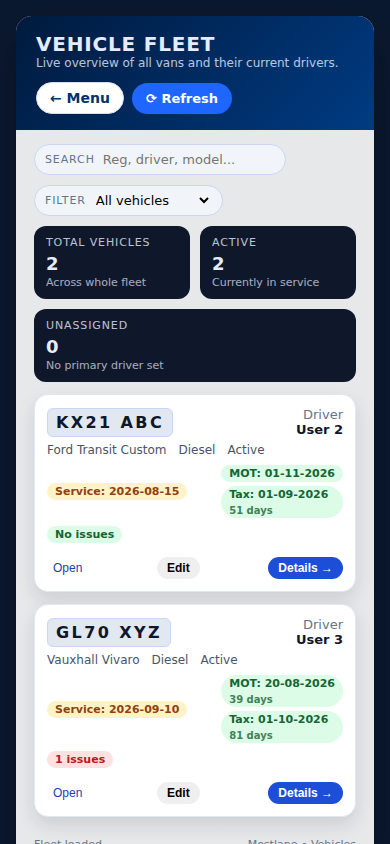
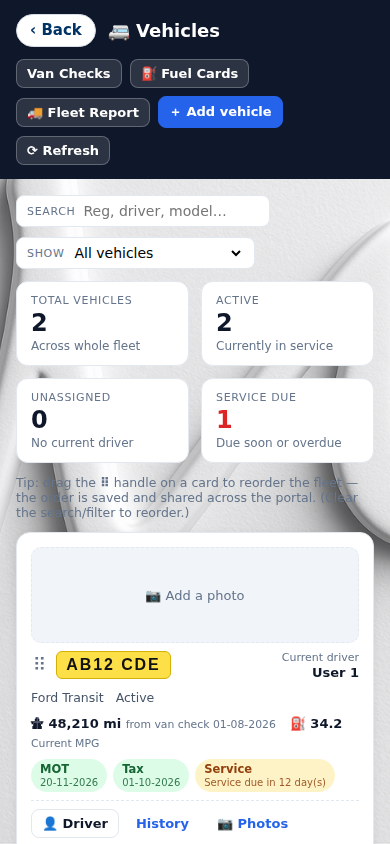
Help: add screenshots to the Vehicles & fleet guides
Staged 8 phone-viewport screenshots (390x844, generic User 1/2/3 data) for
the new Vehicles help guides and wired them into the relevant step of each:
vehicles overview, weekly van check, van handover, maintenance & costs,
check/handover history & issues, fuel cards & MPG, cost-to-run, and the
set-up checks/handovers/alerts guide.

Claude-Session: https://claude.ai/code/session_01Ao2zEhfjm8yDHNmbSKeEgT

diff --git a/help.html b/help.html
@@ -360,42 +360,42 @@
         { icon: "🚐", title: "Do your weekly van check", perms: "always", steps: [
           ["When your check is due you'll get a <b>🚐 reminder</b> (a red alert / notification). Tap it, or open <b>Van Check</b>, to start."],
           ["Enter your van's <b>mileage</b>, then tap <b>OK</b> or <b>Defect</b> for every walkaround item — add a short note for anything you mark as a defect."],
-          ["If your office has added an <b>Equipment on board</b> list, tap <b>Present</b> or <b>Missing</b> for each item (spare wheel, jack, tyre tools…)."],
+          ["If your office has added an <b>Equipment on board</b> list, tap <b>Present</b> or <b>Missing</b> for each item (spare wheel, jack, tyre tools…).", "vancheck.png"],
           ["Take each required <b>photo</b> with the camera (the ones marked with a <b>*</b>). Add extra photos of any defects if you need to."],
           ["Tap whether the van is <b>safe to drive</b>, add any note, then <b>Submit</b>. Your answers save as you go, so a dropped signal or a closed app won't lose anything — just reopen and carry on."],
         ]},
         { icon: "🤝", title: "Complete a van handover", perms: "always", steps: [
           ["When you're given a van the office sends you a <b>Van Handover</b>. You'll get a notification, and it's <b>required before you use the vehicle</b> (you can put it off once for up to 4 hours)."],
-          ["Work through the full check: the <b>vehicle checks</b> (OK / Defect), the <b>equipment on board</b> (Present / Missing), and the <b>condition report</b> for inside and out."],
+          ["Work through the full check: the <b>vehicle checks</b> (OK / Defect), the <b>equipment on board</b> (Present / Missing), and the <b>condition report</b> for inside and out.", "vanhandover.png"],
           ["Log any existing <b>damage</b> with a note and a photo — this protects you if it's queried later. Take the required photos and enter the mileage."],
           ["Tap whether it's <b>safe to drive</b>, then <b>sign</b> at the bottom to confirm you accept the van in this condition, and <b>Submit</b>. The office is notified automatically."],
         ]},
         { icon: "🔧", title: "A vehicle's maintenance &amp; costs", perms: ["Vehicles"], steps: [
           ["From a vehicle card tap <b>🔧 Maintenance</b> to open that van's work history and spend."],
           ["<b>＋ Add maintenance</b> records a job: the <b>date</b>, a short <b>description</b>, and an optional <b>document</b> (invoice, receipt or photo)."],
-          ["Split the cost by <b>category</b> — e.g. one invoice as <b>Brakes £200</b> and <b>Tyres £250</b>. The same document then shows under both, and each category's totals add up correctly."],
+          ["Split the cost by <b>category</b> — e.g. one invoice as <b>Brakes £200</b> and <b>Tyres £250</b>. The same document then shows under both, and each category's totals add up correctly.", "vehmaint.png"],
           ["The page shows a <b>spend-by-category chart</b>, tap-to-filter chips and a dated timeline. Tap <b>🏷 Categories</b> to add your own categories and colours."],
         ]},
         { icon: "📋", title: "Van check &amp; handover history, and issues", perms: ["Vehicles"], steps: [
           ["From a vehicle card tap <b>📋 Checks</b> to see every completed <b>van check</b> and <b>handover</b>, grouped into month dropdowns. Tap one to open its photos and answers."],
-          ["The <b>⚠ Issues</b> panel lists every defect, missing item and alert across all its checks — newest first. Tick <b>Alerts only</b> to see just the ones that triggered an alert."],
+          ["The <b>⚠ Issues</b> panel lists every defect, missing item and alert across all its checks — newest first. Tick <b>Alerts only</b> to see just the ones that triggered an alert.", "vehchecks.png"],
           ["<b>🔎 By question</b> lets you pick any item (e.g. “Spare wheel”) and see every answer over time — who, when, and what they answered."],
           ["A <b>⚠</b> symbol on a check or handover means an alert was triggered — see “Set up checks, handovers &amp; alerts”."],
         ]},
         { icon: "⛽", title: "Fuel cards &amp; MPG", perms: ["Vehicles"], steps: [
           ["Open <b>⛽ Fuel Cards</b> from the top of the Vehicles page. Pick a card (each is linked to a driver by the <b>Fuel card number</b> in Users Admin) and log each fill-up: <b>date, litres and cost</b>."],
           ["<b>Current MPG</b> is worked out automatically from the litres bought and the mileage from van checks, and appears on each vehicle card once there's enough data (a couple of mileage readings and a fill-up)."],
-          ["The stats fold by <b>Weekly / Monthly / 3-Monthly / Yearly</b> — every average uses your <b>real data span only</b>, and anything stretched beyond it is clearly marked <b>projected</b>."],
+          ["The stats fold by <b>Weekly / Monthly / 3-Monthly / Yearly</b> — every average uses your <b>real data span only</b>, and anything stretched beyond it is clearly marked <b>projected</b>.", "fuelcards.png"],
           ["Fuel spend and MPG are open to anyone with Vehicles access; the <b>running-cost</b> figures are full-access only."],
         ]},
         { icon: "💷", title: "What a vehicle costs to run", perms: ["__fullOnly"], steps: [
           ["In <b>Edit</b> on a vehicle open the <b>💷 Financials</b> section: insurance and road tax per year, whether it's <b>owned or financed</b>, and (if financed) the monthly cost, agreement end, allowed miles and excess pence-per-mile."],
-          ["Open the vehicle card to see <b>Cost to run / year</b> — insurance + tax + finance + projected fuel + the last 12 months' maintenance + any projected excess-mileage charge."],
+          ["Open the vehicle card to see <b>Cost to run / year</b> — insurance + tax + finance + projected fuel + the last 12 months' maintenance + any projected excess-mileage charge.", "vehcost.png"],
           ["Figures worked out from a trend (fuel, excess mileage) are badged <b>projected</b>. The Fuel Cards page shows the same running cost per vehicle in a table."],
         ]},
         { icon: "🛠", title: "Set up checks, handovers &amp; alerts", perms: ["__fullOnly"], steps: [
           ["Open <b>Van Checks</b> and tap <b>⚙ Settings</b> (the weekly check) or <b>🤝 Handover template</b>. Each has editable <b>checklist</b>, <b>equipment</b> and <b>photo</b> lists — add, rename or remove items."],
-          ["Tick <b>Alert if</b> on any item and pick the answer that should flag it (e.g. <b>Spare wheel → Missing</b>, or a check → <b>Defect</b>)."],
+          ["Tick <b>Alert if</b> on any item and pick the answer that should flag it (e.g. <b>Spare wheel → Missing</b>, or a check → <b>Defect</b>).", "vanalerts.png"],
           ["Under <b>Notify these people…</b> choose who gets a push notification when an alert answer is given, then <b>Save</b> — it applies to every check from then on."],
           ["When a driver gives an alert answer, the chosen people are notified and the check carries a <b>⚠</b> symbol; it also appears in that vehicle's <b>Issues</b> log."],
           ["Use <b>🔔 Remind now</b> to chase anyone who still owes this week's van check."],
